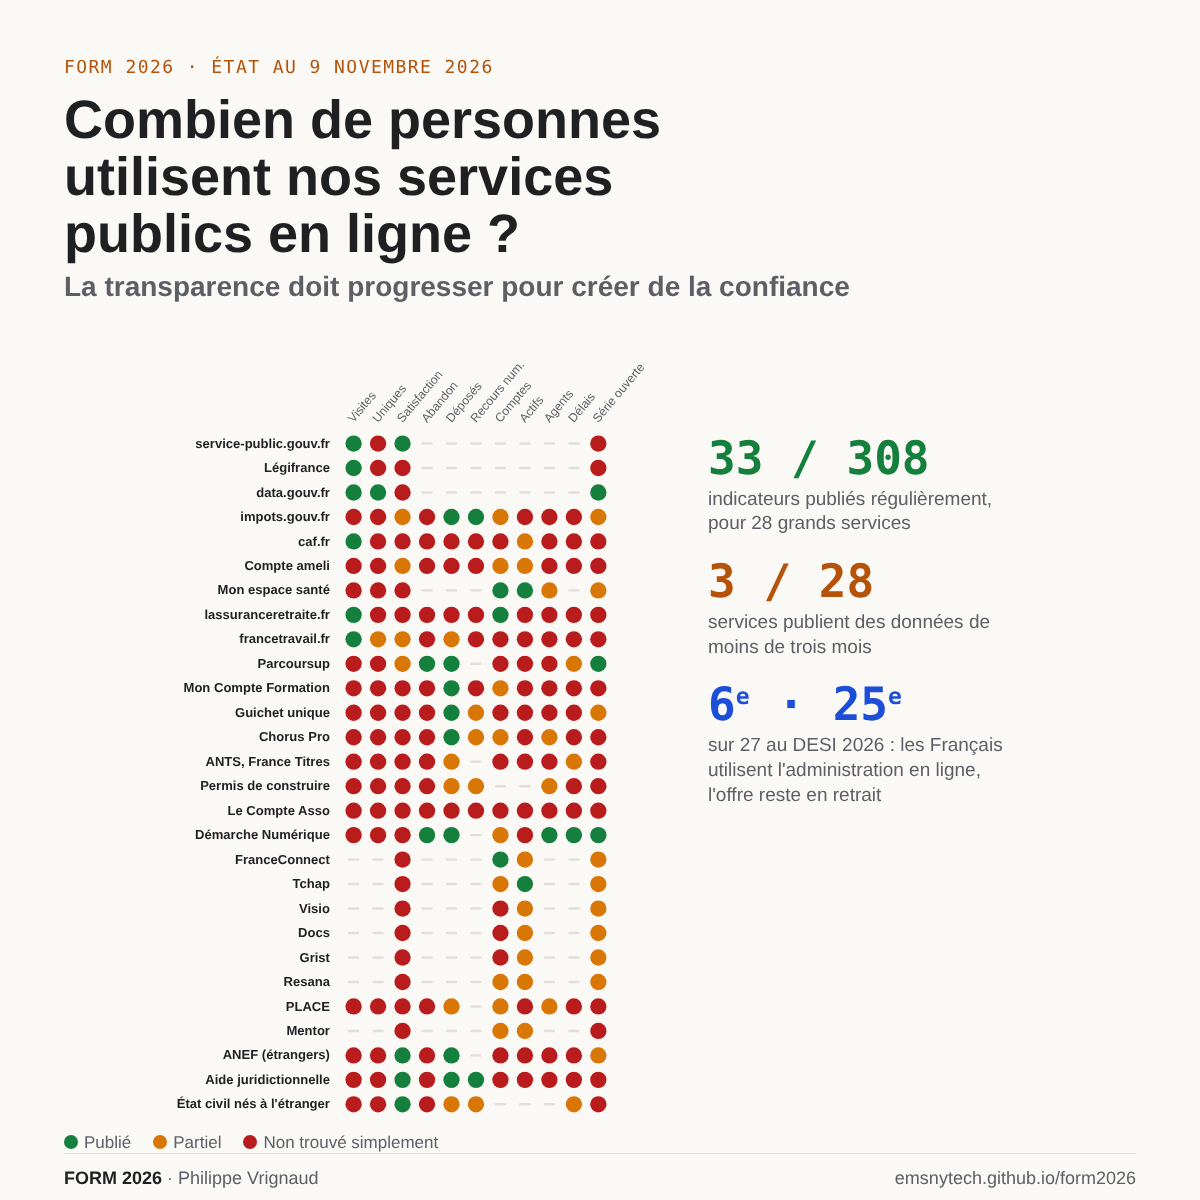
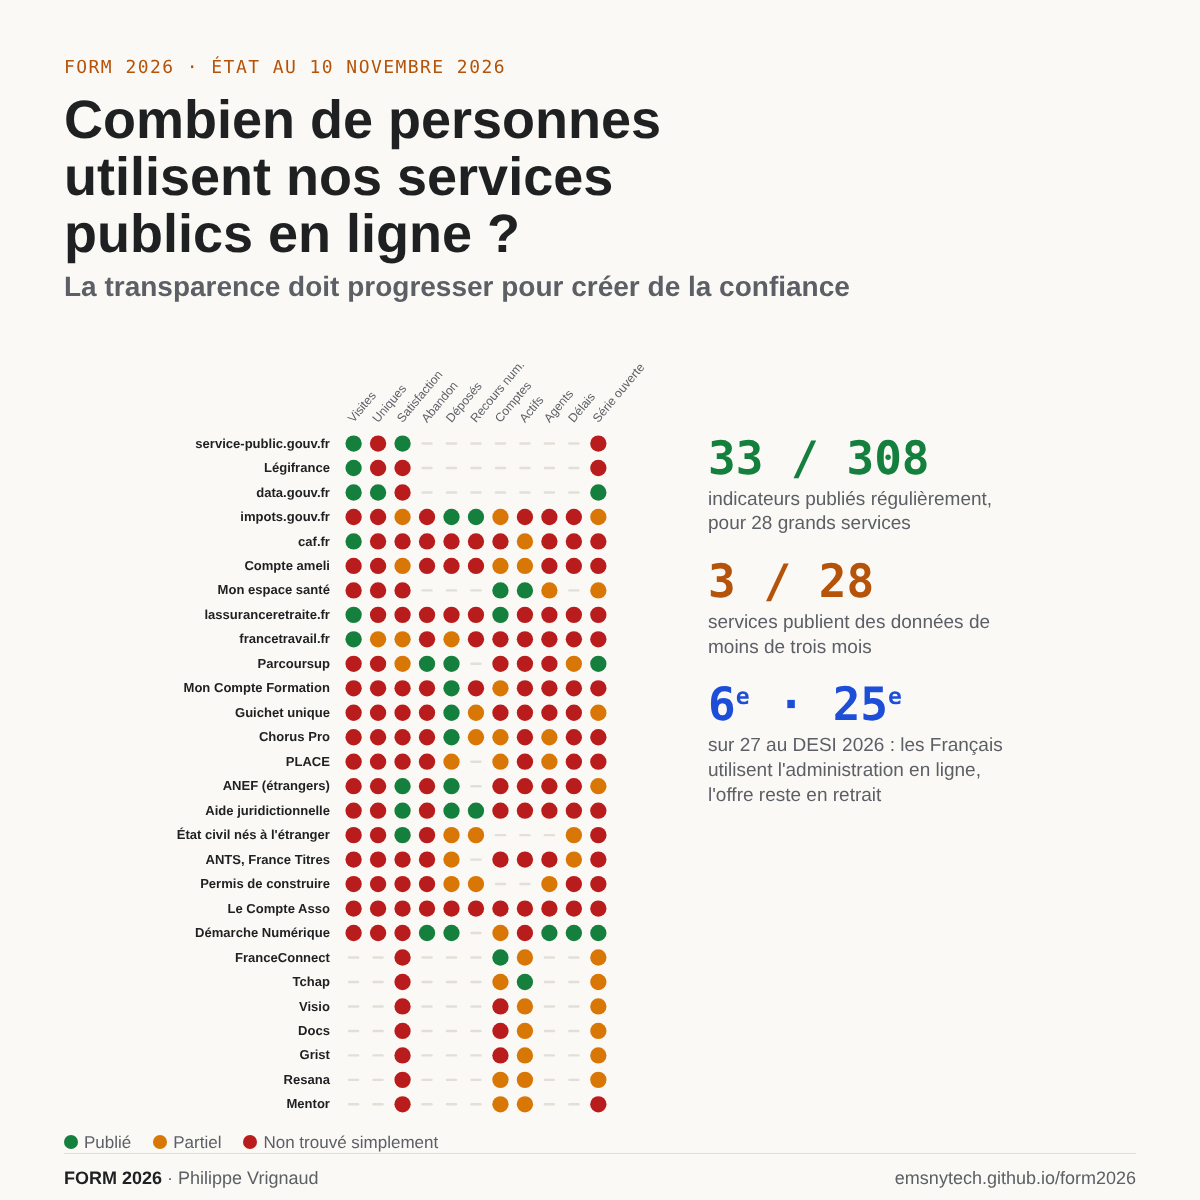
Indicateurs : onze pages de statistiques beta.gouv.fr vérifiées, illustration au 10 novembre

Changed region(s): [[0.1542, 0.6167, 0.5242, 0.925], [0.2467, 0.0308, 0.4317, 0.0617]]

diff --git a/indicateurs-services-en-ligne.html b/indicateurs-services-en-ligne.html
@@ -162,7 +162,7 @@ footer{margin-top:3rem;padding-top:1.2rem;border-top:1px solid var(--line);color
   <div class="figures" aria-label="Chiffres clés">
     <div class="fig k"><b>34<sup style="font-size:.6em">e</sup></b><span>rang à l'indice ONU de l'administration en ligne (4<sup>e</sup> en 2014) ; 25<sup>e</sup> sur 27 au DESI 2026</span></div>
     <div class="fig k"><b>143</b><span>indicateurs attendus qui n'ont pas pu être trouvés simplement, sur 308 cases</span></div>
-    <div class="fig w"><b>4 / 29</b><span>services publient des données de moins de trois mois</span></div>
+    <div class="fig w"><b>3 / 28</b><span>services publient des données de moins de trois mois</span></div>
     <div class="fig u"><b>36 %</b><span>des produits conçus selon la méthode beta.gouv.fr publient leur budget ; aucun des autres services passés en revue</span></div>
   </div>
 
@@ -295,7 +295,21 @@ footer{margin-top:3rem;padding-top:1.2rem;border-top:1px solid var(--line);color
     <p class="note">Exemple d'une page de statistiques bien tenue : <a href="https://rdv.anct.gouv.fr/stats" target="_blank" rel="noopener">RDV Service Public</a>, liée depuis le pied de page, avec 2,6 millions de rendez-vous sur douze mois glissants, 12 703 agents actifs et 2 118 organisations actives par mois. Un produit sans page de statistiques, ou qui ne la rend pas trouvable depuis son site, s'écarte de son engagement.</p>
     <p class="note">La doctrine reprend trois références qui se recoupent : le Petit guide du pilotage par l'impact des coachs beta.gouv.fr et du laboratoire de l'ANSSI, la présentation « Piloter la croissance et mesurer l'impact » de l'équipe FAST et le livret Mesurer de l'ANSSI. Seule la présentation de l'équipe FAST recommande de suivre les indicateurs « dans un tableau de bord public » ; la doctrine a rendu les indicateurs obligatoires, mais n'a pas repris cette exigence de publication.</p>
     <p class="note">Constats sur les conventions DINUM, le bilan beta.gouv.fr et les matrices d'impact (dont l'absence de matrice pour Démarche Numérique) établis au 9 novembre 2026.</p>
-    <p class="note">Autres pages de statistiques vérifiées le 10 novembre 2026, parmi les services cités en exemple par les guides du pilotage par l'impact : <a href="https://www.jeveuxaider.gouv.fr/stats">JeVeuxAider.gouv.fr</a> (filtrable par période et département depuis 2020), <a href="https://nosgestesclimat.fr/stats">Nos Gestes Climat</a> (tableau rafraîchi chaque jour, budget publié) et <a href="https://acceslibre.beta.gouv.fr/stats/">Acceslibre</a> (série mensuelle) fonctionnent. Le lien de statistiques de La Bonne Boîte renvoie une page introuvable, et le tableau Metabase intégré à la page de Santé Psy Étudiant ne s'affiche pas.</p>
+    <h3 style="margin-top:2rem">Onze pages de statistiques vérifiées le 10 novembre 2026</h3>
+    <p class="note" style="margin-top:.3rem">Services cités en exemple par les guides du pilotage par l'impact et par le recueil de matrices de la DINUM. Six pages fonctionnent, quatre ne sont pas accessibles. Les tableaux Metabase de La bonne alternance répondent : l'arrêt de celui de Santé Psy Étudiant n'est pas général.</p>
+    <div class="panel"><ul class="fresh">
+        <li><i class="dot" style="--c:var(--ok)" role="img" aria-label="accessible"></i><b><a href="https://www.jeveuxaider.gouv.fr/stats">JeVeuxAider.gouv.fr</a></b><span>Filtrable par période et département depuis 2020 ; 9 € par mise en relation</span></li>
+        <li><i class="dot" style="--c:var(--ok)" role="img" aria-label="accessible"></i><b><a href="https://nosgestesclimat.fr/stats">Nos Gestes Climat</a></b><span>Tableau rafraîchi chaque jour, budget publié</span></li>
+        <li><i class="dot" style="--c:var(--ok)" role="img" aria-label="accessible"></i><b><a href="https://acceslibre.beta.gouv.fr/stats/">Acceslibre</a></b><span>Série mensuelle (635 045 lieux) ; la case visiteurs uniques est vide</span></li>
+        <li><i class="dot" style="--c:var(--ok)" role="img" aria-label="accessible"></i><b><a href="https://annuaire-entreprises.data.gouv.fr/a-propos/stats">L'Annuaire des Entreprises</a></b><span>Utilisateurs, agents connectés, appels API, satisfaction ; 0,011 € par visiteur</span></li>
+        <li><i class="dot" style="--c:var(--ok)" role="img" aria-label="accessible"></i><b><a href="https://labonnealternance.apprentissage.beta.gouv.fr/statistiques">La bonne alternance</a></b><span>Visites et tableaux Metabase publics ; 15 € par candidat, 35 € par contrat</span></li>
+        <li><i class="dot" style="--c:var(--ok)" role="img" aria-label="accessible"></i><b><a href="https://mesaides.france-renov.gouv.fr/stats">Mes Aides Réno</a></b><span>45 743 simulations terminées sur 30 jours ; 0,87 € par simulation</span></li>
+        <li><i class="dot" style="--c:var(--part)" role="img" aria-label="partiel"></i><b><a href="https://beta.gouv.fr/startups/faritas.html">FARITAS</a></b><span>Pas de page de statistiques, indicateurs sur la fiche ; 0,02 € par euro de taxe sécurisé</span></li>
+        <li><i class="dot" style="--c:var(--ko)" role="img" aria-label="non accessible"></i><b><a href="https://beta.gouv.fr/startups/experts.html">seLEXpert</a></b><span>Page réservée aux comptes connectés ; la matrice donne 35 € par désignation</span></li>
+        <li><i class="dot" style="--c:var(--ko)" role="img" aria-label="non accessible"></i><b><a href="https://beta.gouv.fr/startups/dora.html">DORA</a></b><span>La page ne s'ouvre pas ; la matrice donne 19 € par mise en relation</span></li>
+        <li><i class="dot" style="--c:var(--ko)" role="img" aria-label="non accessible"></i><b><a href="https://beta.gouv.fr/startups/la-bonne-boite.html">La Bonne Boîte</a></b><span>Page introuvable</span></li>
+        <li><i class="dot" style="--c:var(--ko)" role="img" aria-label="non accessible"></i><b><a href="https://santepsy.etudiant.gouv.fr/stats">Santé Psy Étudiant</a></b><span>Application Metabase arrêtée</span></li>
+    </ul></div>
     <p class="note">Exemple d'une matrice complète : <a href="https://boris.beta.gouv.fr/matrice-impact" target="_blank" rel="noopener">BoRiS</a>, avec série mensuelle et coût par simulation, mise à jour en avril 2026.</p>
   </section>
 
